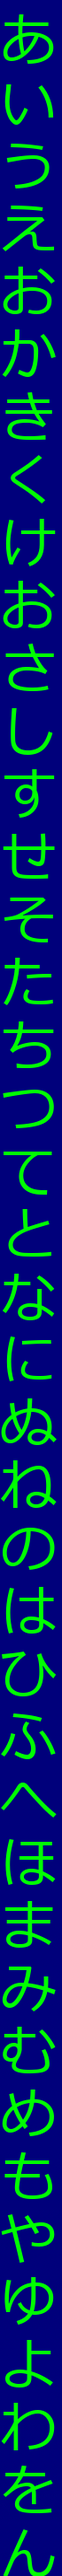
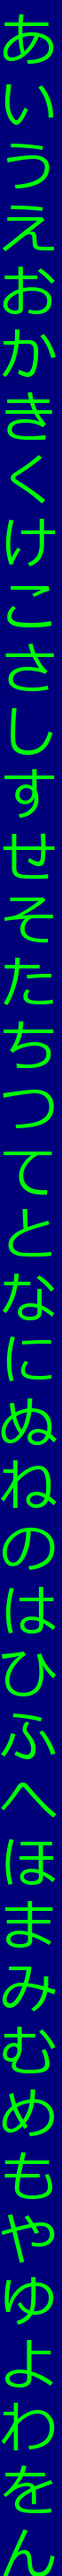
kana render test

Changed region(s): [[0.0571, 0.2171, 0.8571, 0.2481]]

diff --git a/sample/font_gen.py b/sample/font_gen.py
@@ -5,7 +5,7 @@ from PIL import ImageDraw
 from PIL import ImageFont
 
 CHIPSIZE=70
-text = "あいうえおかきくけおさしすせそたちつてとなにぬねのはひふへほまみむめもやゆよわをん"
+text = "あいうえおかきくけこさしすせそたちつてとなにぬねのはひふへほまみむめもやゆよわをん"
 print(len(text))
 
 img = Image.new("RGBA",(CHIPSIZE,CHIPSIZE*len(text)),(0,0,123,255))
@@ -20,5 +20,5 @@ def drawtext(char,y):
 for i in range(len(text)):
     drawtext(text[i],i)
 
-img.save("kana_font.png")
+img.save("../font/kana_font.png")
 img.show()

diff --git a/sample/font_render.py b/sample/font_render.py
@@ -7,13 +7,16 @@ def test():
     for i in range(5):
         screen.blit(kana,(30+i*80,70),pygame.Rect(0,i*70+8,70,70))
 
+    for i in range(5):
+        screen.blit(kana,(30+i*80,145),pygame.Rect(0,(i+5)*70+8,70,70))
+
+    for i in range(5):
+        screen.blit(kana,(30+i*80,220),pygame.Rect(0,(i+10)*70+8,70,70))
+
 if __name__ == '__main__':
     pygame.init()
     screen = pygame.display.set_mode(size=(640,480), display=0, depth=32)
     pygame.display.set_caption('Hit any key')
-
-    for n,i in enumerate([1,3,4]):
-        print(f"{n} {i}")
 
     while True:
         screen.fill((0,0,0))
